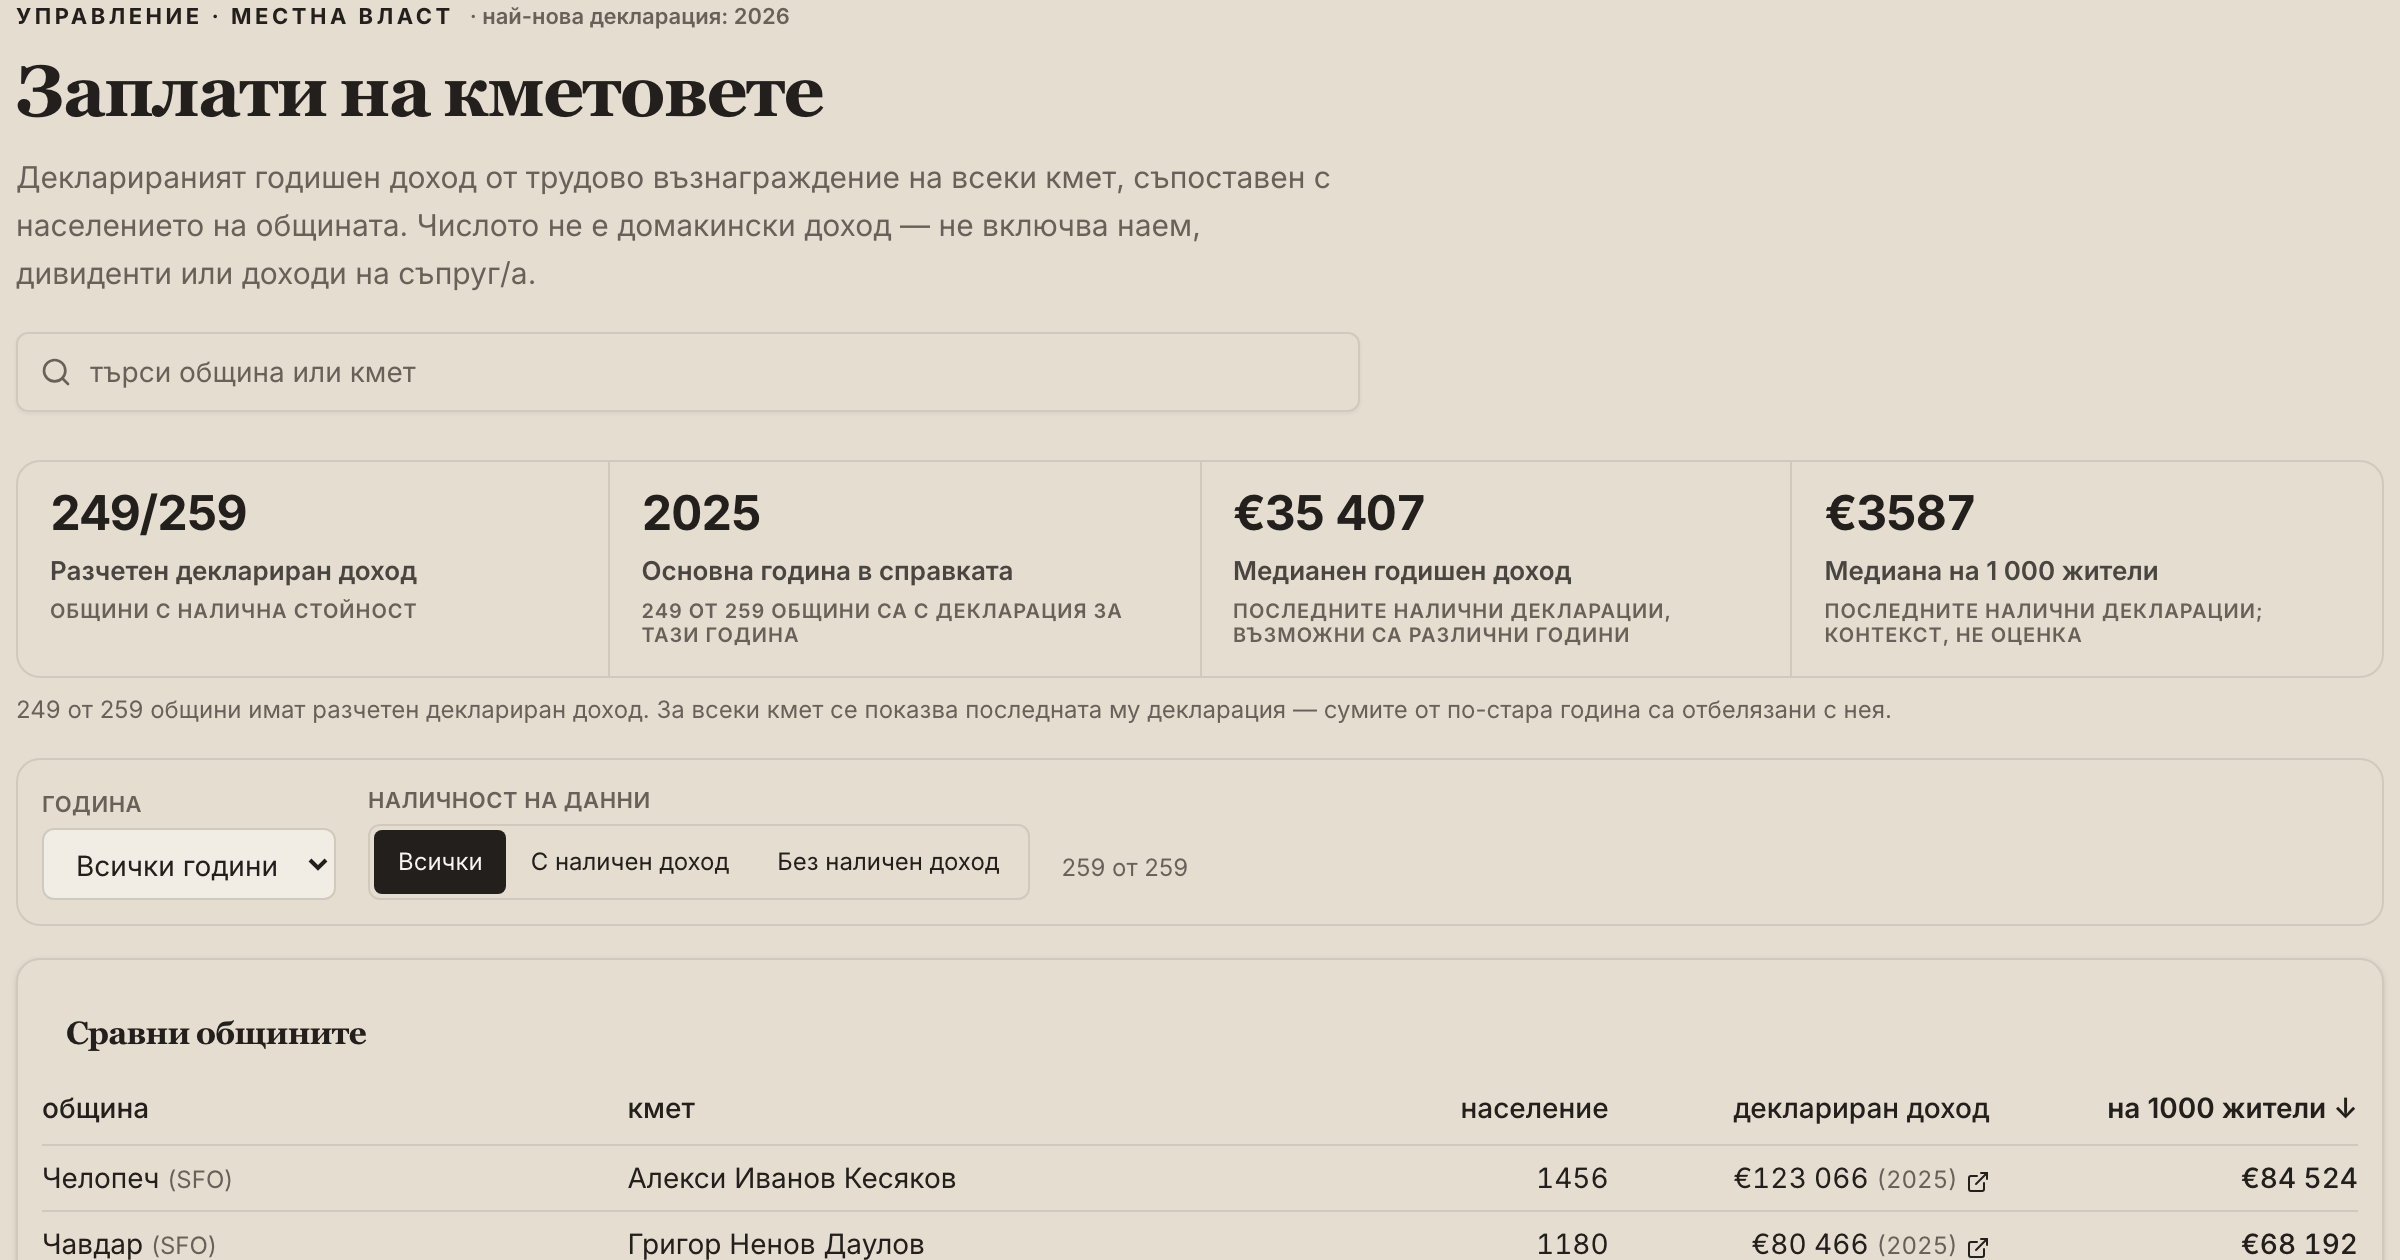
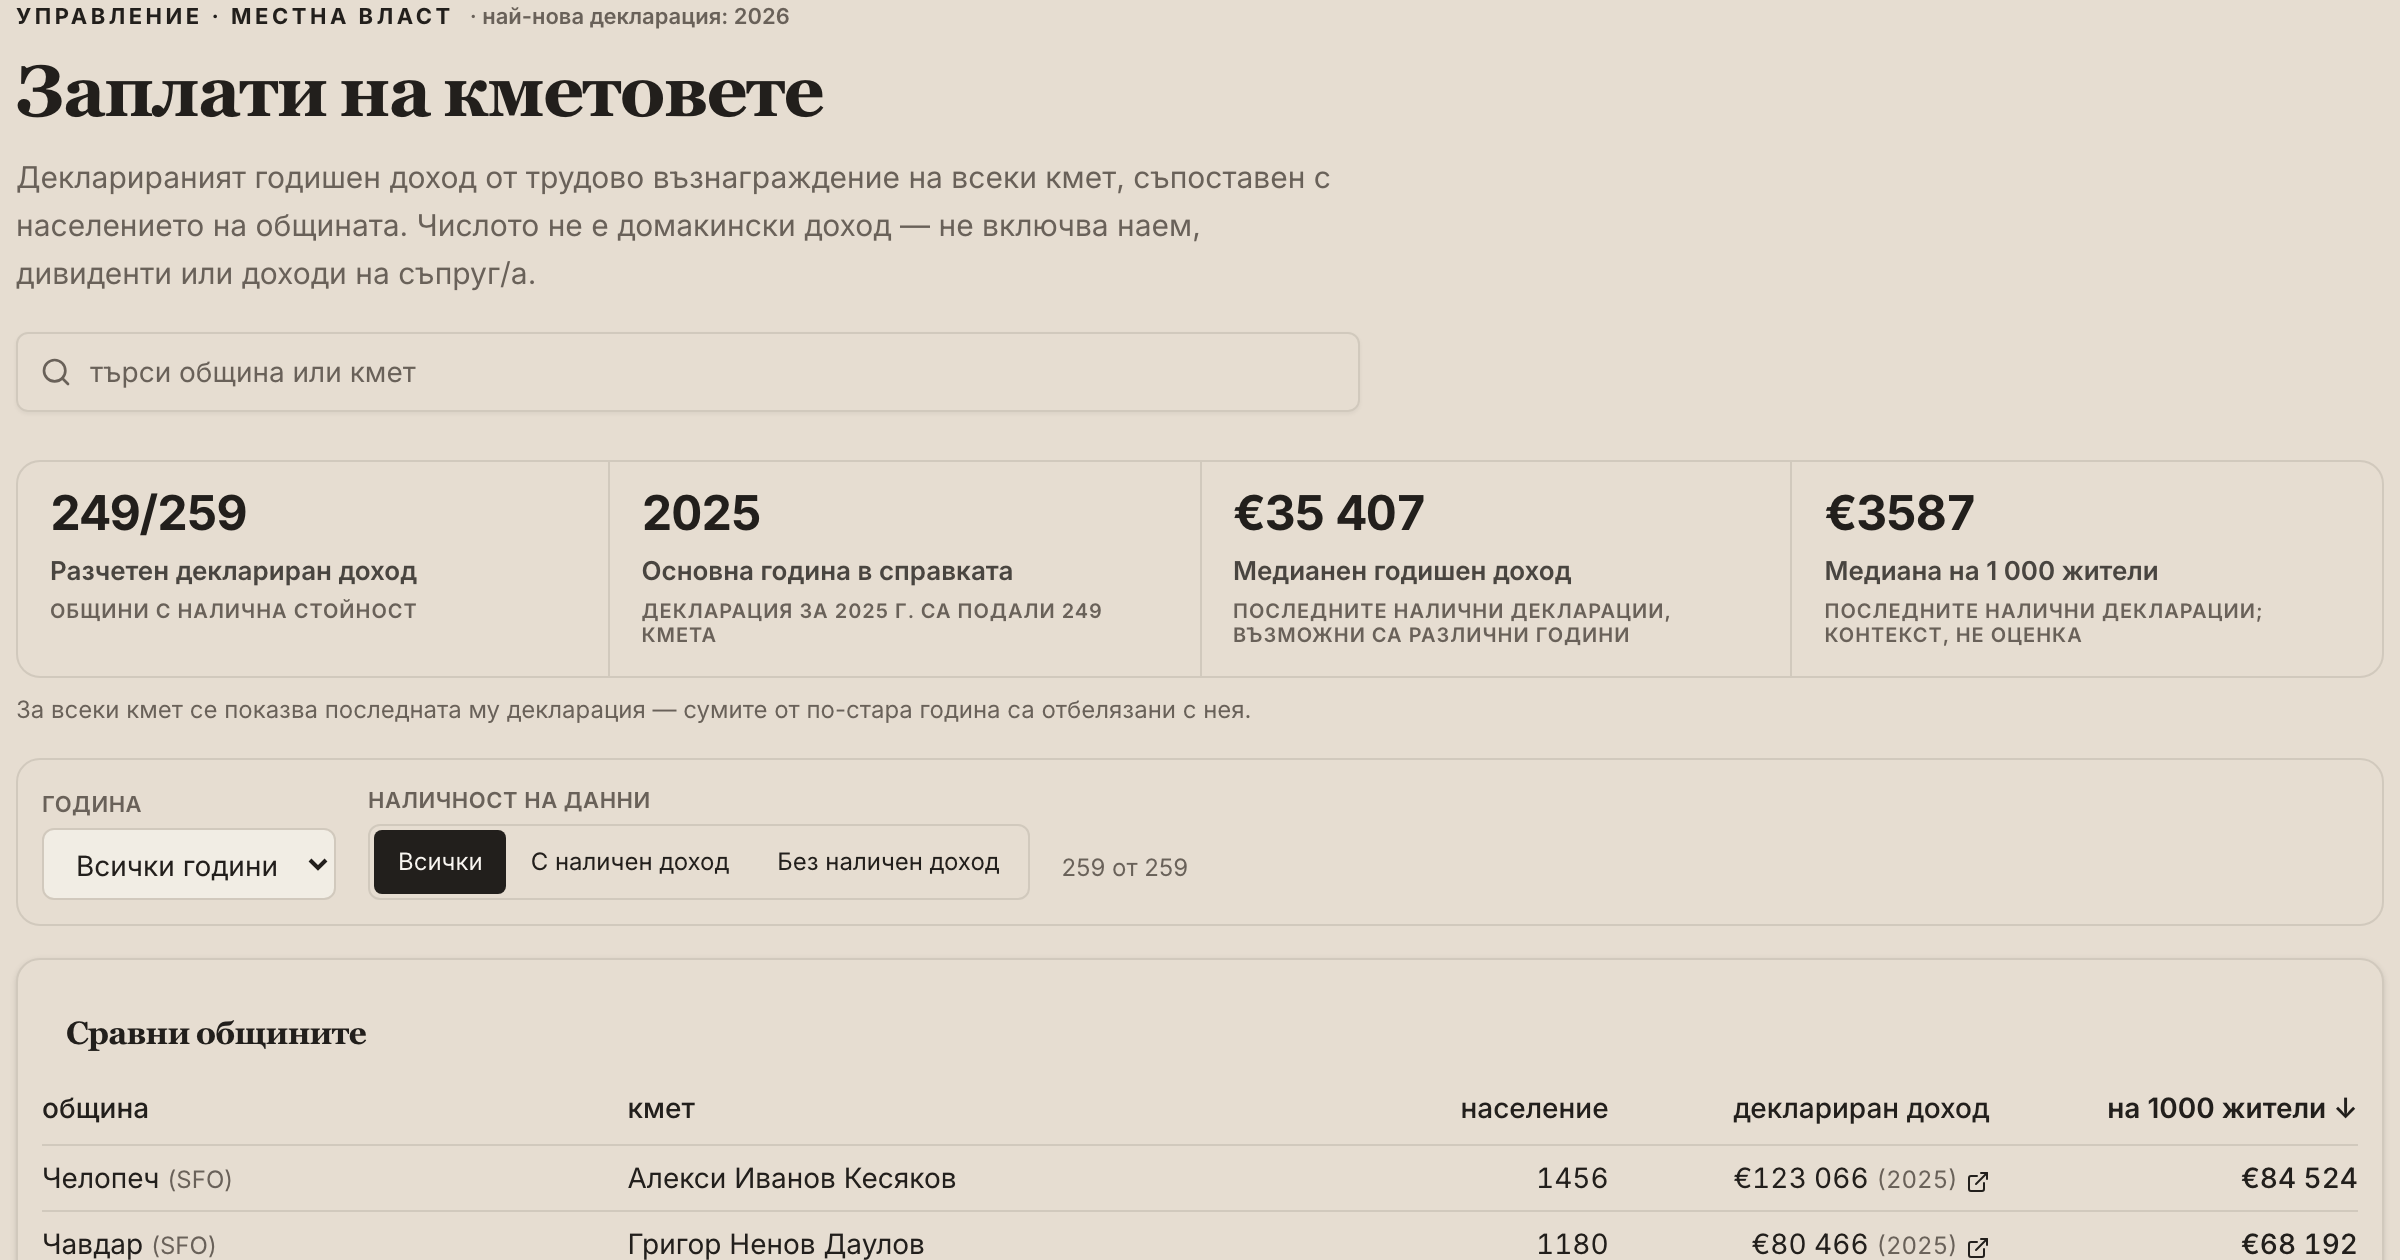
mayor pay: the head printed one "249 от 259" three times, over two different sets
The band's first cell counts municipalities with a resolved labour-income row;
its second counts mayors who filed for the dominant year. Both are 249 of 259
today and that is a coincidence — mayor_pay_ranking() takes each mayor's LATEST
filing whatever its year, and the eyebrow already says the newest is 2026, so a
mayor who filed for 2026 is in the first set and not the second. Rendered as two
"N от M"s ~200px apart, with the kpiNote restating the first a third time
underneath, they read as one fact stated three ways.

This is 8d378e10b0 one layer up ("the coverage line claimed 249 filings for a
year 2 mayors have filed"), so fix the shape rather than the numbers:

  - the year cell's basis names its YEAR cohort and carries no denominator, so
    the "N от M" shape occurs exactly once in the band. Dropping total made
    {{count}} the only numeral, hence _one/_other — "1 кмета" would be wrong.
  - the kpiNote loses its restating first sentence and keeps the caveat, which
    is the one thing on that line no cell can carry: the rows can span years.

The existing "passes the dominant year its OWN count" clause cannot see this —
it feeds the cells 249 and 111, which a shape collision passes as long as it
reads the right variable. The new clause runs on the COINCIDING input and
asserts the year basis names 2025, omits 259, and differs from the coverage
basis. With total restored both clauses fail; every other one stays green.
[…]

Changed region(s): [[0.0, 0.5571, 0.7812, 0.5881], [0.25, 0.4643, 0.4688, 0.5262]]

diff --git a/src/screens/governance/mayorPayHubFigures.ts b/src/screens/governance/mayorPayHubFigures.ts
@@ -35,6 +35,20 @@
 // words: dividing one person's declared income by the population of the place they govern
 // is CONTEXT — it puts Челопеч's 1,456 residents beside Sofia's — and never a judgement
 // about whether the income is high.
+//
+// ⚠⚠ CELLS 1 AND 2 COUNT DIFFERENT SETS AND MUST NOT SHARE A SENTENCE SHAPE. Cell 1 is
+// „has a resolved labour-income row" over every municipality; cell 2 is „filed for the
+// dominant year". Today both are 249 of 259 — a coincidence, since `mayor_pay_ranking()`
+// takes each mayor's LATEST filing whatever its year, so a mayor who filed for a NEWER year
+// is in cell 1 and not in cell 2. Rendered as two „N от M"s ~200px apart they read as one
+// restated fact, which is the defect `8d378e10b0` already shipped once („the coverage line
+// claimed 249 filings for a year 2 mayors have filed"). So cell 2's basis names its YEAR
+// cohort and carries no denominator — there is deliberately no `total` in that call, and the
+// gate below feeds the two cells distinguishable numbers so a re-conflation fails.
+//
+// The same rule retired the head's `kpiNote`'s first sentence: it restated cell 1 in cell
+// 1's own words, a third print of one figure. What is left there is the only thing the band
+// cannot say — that the rows can span years.
 // ═══════════════════════════════════════════════════════════════════════════════════════
 
 import type { HubKpi } from "@/ux/infographic/HubHead";
@@ -92,7 +106,7 @@ export const mayorPayHubKpis = (
           label: t("mp_kpi_dominant_year"),
           basis: t("mp_kpi_dominant_year_detail", {
             count: dominantYear?.count ?? 0,
-            total: totalRows,
+            year: dominantYear?.fiscalYear ?? 0,
           }),
         },
         {

diff --git a/src/screens/governance/mayorPayHubFigures.test.ts b/src/screens/governance/mayorPayHubFigures.test.ts
@@ -72,7 +72,36 @@ describe("the band", () => {
       eur,
     );
     expect(cells[0].value).toBe("249/259");
-    expect(cells[1].basis).toBe("mp_kpi_dominant_year_detail:111:259");
+    expect(cells[1].basis).toBe("mp_kpi_dominant_year_detail:111:2025");
+  });
+
+  it("gives the year cell a basis that cannot be read as the coverage cell restated", () => {
+    // The reason the assertion above is not enough. On the live corpus both counts are 249,
+    // so „249 от 259 общини с налична стойност" and „249 от 259 общини са с декларация за
+    // тази година" sat ~200px apart in the same shape and read as one restated fact — the
+    // conflation 8d378e10b0 shipped, one layer up. Two things keep them visibly separate,
+    // and both are only checkable on the COINCIDING input the distinguishable one above
+    // cannot use:
+    //
+    //   • the year basis names its YEAR cohort, so the two sentences differ even when the
+    //     numbers do not;
+    //   • it carries NO denominator, so the „N от M" shape occurs exactly once in the band.
+    //
+    // ⚠ `totalRows` must therefore never reach that call. Restoring it would pass every
+    // other clause in this file.
+    const [coverage, year] = mayorPayHubKpis(
+      259,
+      249,
+      { fiscalYear: 2025, count: 249 },
+      1,
+      2,
+      t,
+      eur,
+    );
+    expect(coverage.value).toBe("249/259");
+    expect(year.basis).toContain("2025");
+    expect(year.basis).not.toContain("259");
+    expect(year.basis).not.toBe(coverage.basis);
   });
 
   it("is all-or-nothing: an empty corpus renders no cells, never a short band", () => {

diff --git a/src/screens/governance/GovernanceMayorPayScreen.tsx b/src/screens/governance/GovernanceMayorPayScreen.tsx
@@ -254,14 +254,12 @@ export const GovernanceMayorPayScreen: FC = () => {
         }
         kpis={kpis}
         kpisPending={isPending ? 4 : undefined}
-        kpiNote={
-          rows.length > 0
-            ? t("mp_page_coverage", {
-                withIncome: incomeRows.length,
-                total: rows.length,
-              })
-            : undefined
-        }
+        // ⚠ THE COVERAGE FIGURE IS DELIBERATELY NOT HERE — see `mayorPayHubFigures.ts`'s
+        // header. It used to open this line as „249 от 259 общини имат разчетен деклариран
+        // доход", which is verbatim what the band's first cell already says two lines above,
+        // and the SECOND cell prints its own unrelated „249 от 259" between them. What is
+        // left is the one thing no cell can carry: that the rows can span filing years.
+        kpiNote={rows.length > 0 ? t("mp_page_coverage") : undefined}
       />
 
       {isPending && (

diff --git a/src/screens/governance/GovernanceMayorPayScreen.test.tsx b/src/screens/governance/GovernanceMayorPayScreen.test.tsx
@@ -153,7 +153,7 @@ describe("GovernanceMayorPayScreen", () => {
     expect(dominantCell).not.toBeNull();
     expect(within(dominantCell!).getByText("2025")).toBeVisible();
     expect(
-      screen.getByText('mp_kpi_dominant_year_detail:{"count":2,"total":3}'),
+      screen.getByText('mp_kpi_dominant_year_detail:{"count":2,"year":2025}'),
     ).toBeVisible();
   });
 
